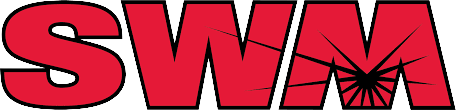
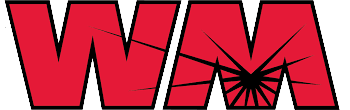
sss

diff --git a/public/index.html b/public/index.html
@@ -11823,7 +11823,7 @@
     <header class="header fixed">
         <div class="container">
             <a class="logo" href="">
-                <img src="https://i.ibb.co/q056y2T/Witchmarketing-400-200-px-1.png " width="100" height="100">
+                <img src="https://i.ibb.co/ZdjT97N/1202-removebg-preview.png" width="100" height="100">
             </a>
             <div class="menus-box">
                 <ul class="menus">
@@ -11886,7 +11886,7 @@
                 </style>
 
                 <div class="hero-img">
-                    <img src="https://i.ibb.co/HBDcpby/mgid-a3tj-210510-Converted.png" alt="">
+                    <img src="https://i.ibb.co/4fPxfwD/Witchmarketing-400-200-px-500-500-px-2.png" alt="">
                 </div>
             </div>
         </div>
@@ -11933,7 +11933,7 @@
                     </style>
 
                     <div class="hero-img">
-                        <img src=" https://i.ibb.co/HBDcpby/mgid-a3tj-210510-Converted.png" alt="">
+                        <img src="https://i.ibb.co/4fPxfwD/Witchmarketing-400-200-px-500-500-px-2.png" alt="">
                     </div>
                 </div>
             </div>
